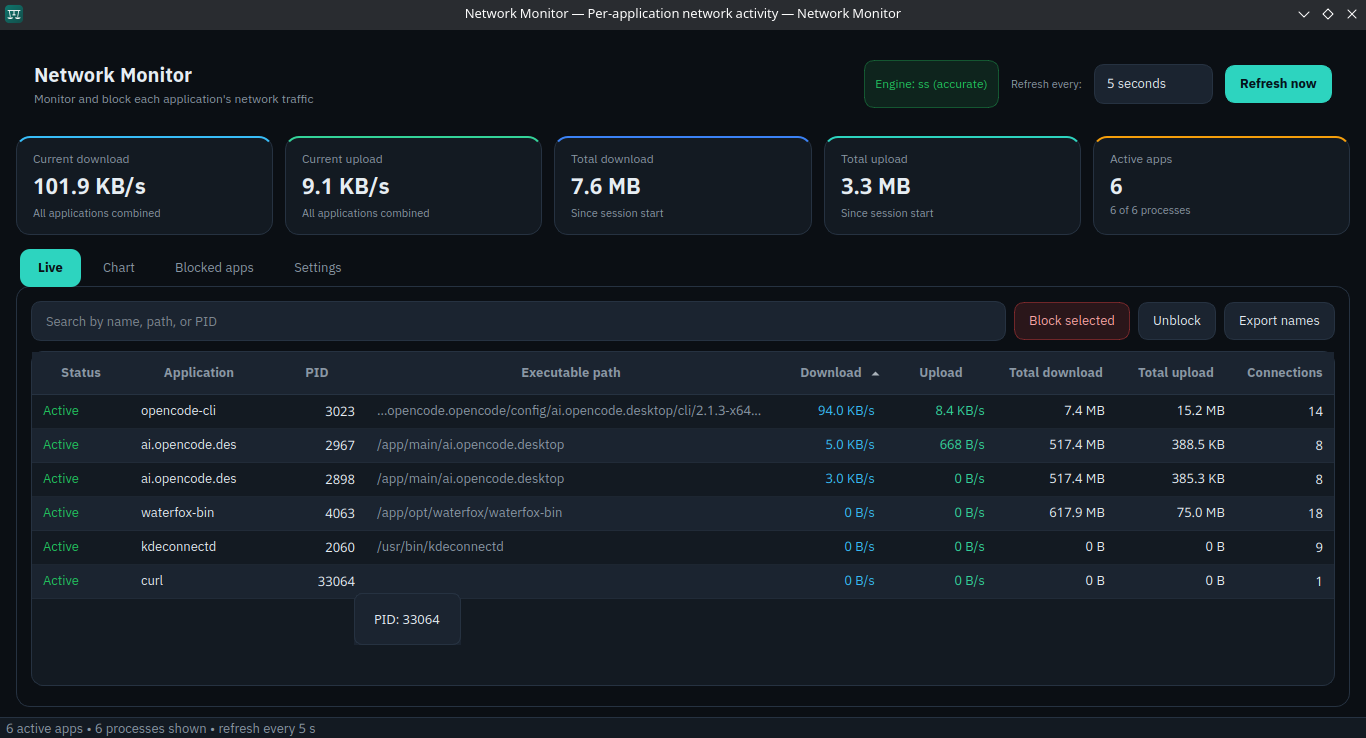
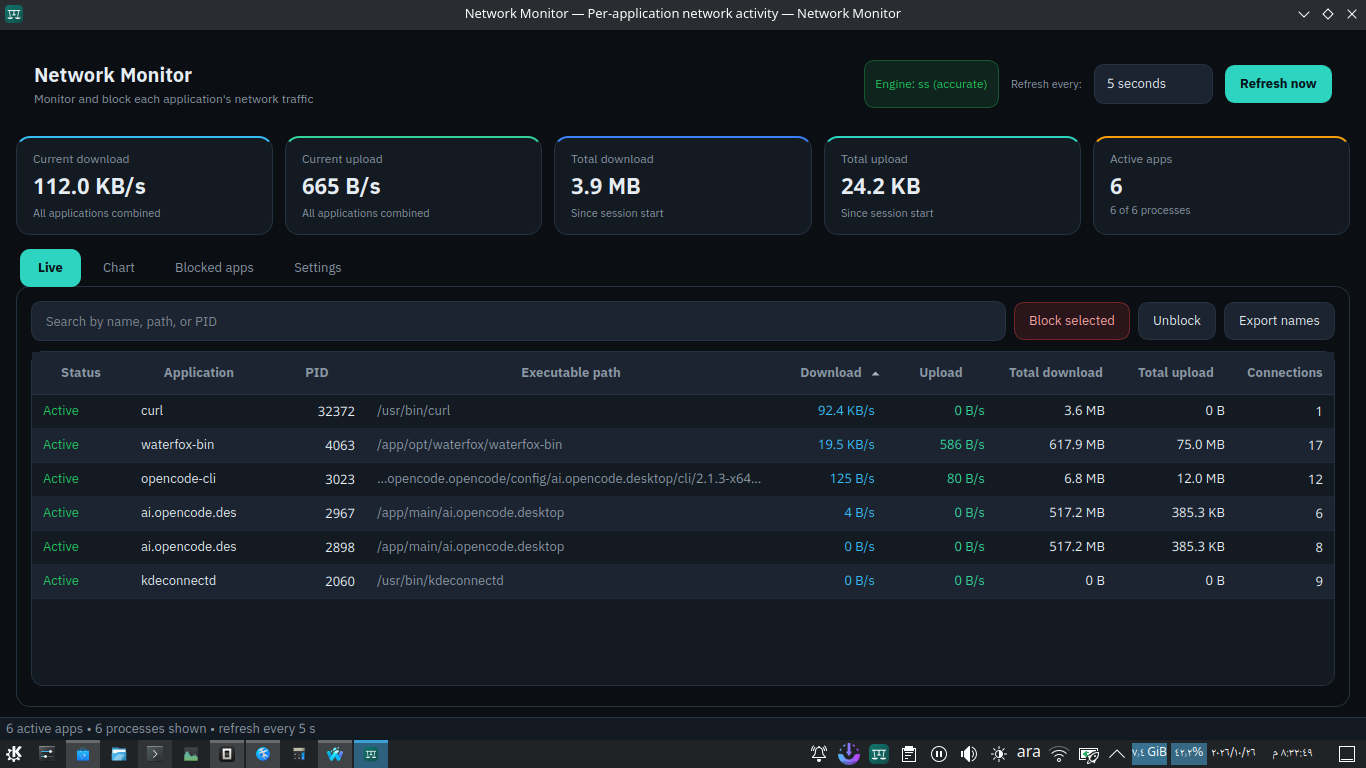
Refresh live connections screenshot and README gallery

diff --git a/README_AR.md b/README_AR.md
@@ -23,6 +23,10 @@
 | --- | --- |
 | ![التطبيقات المحظورة](docs/screenshots/blocked-apps.png) | ![الإعدادات وحول البرنامج](docs/screenshots/about.png) |
 
+| الاتصالات النشطة | الإعدادات |
+| --- | --- |
+| ![الاتصالات النشطة](docs/screenshots/live-connections.png) | ![الإعدادات](docs/screenshots/settings.png) |
+
 ## التحميل
 تُنشر الحزم الجاهزة عبر **GitHub Releases**:
 

diff --git a/README.md b/README.md
@@ -23,6 +23,10 @@ A dark, bilingual (English/Arabic) desktop network monitor for Linux (Debian/Ubu
 | --- | --- |
 | ![Blocked applications](docs/screenshots/blocked-apps.png) | ![Settings and About](docs/screenshots/about.png) |
 
+| Live connections | Settings |
+| --- | --- |
+| ![Live connections](docs/screenshots/live-connections.png) | ![Settings](docs/screenshots/settings.png) |
+
 ## Download
 Prebuilt packages are published on **GitHub Releases**:
 
